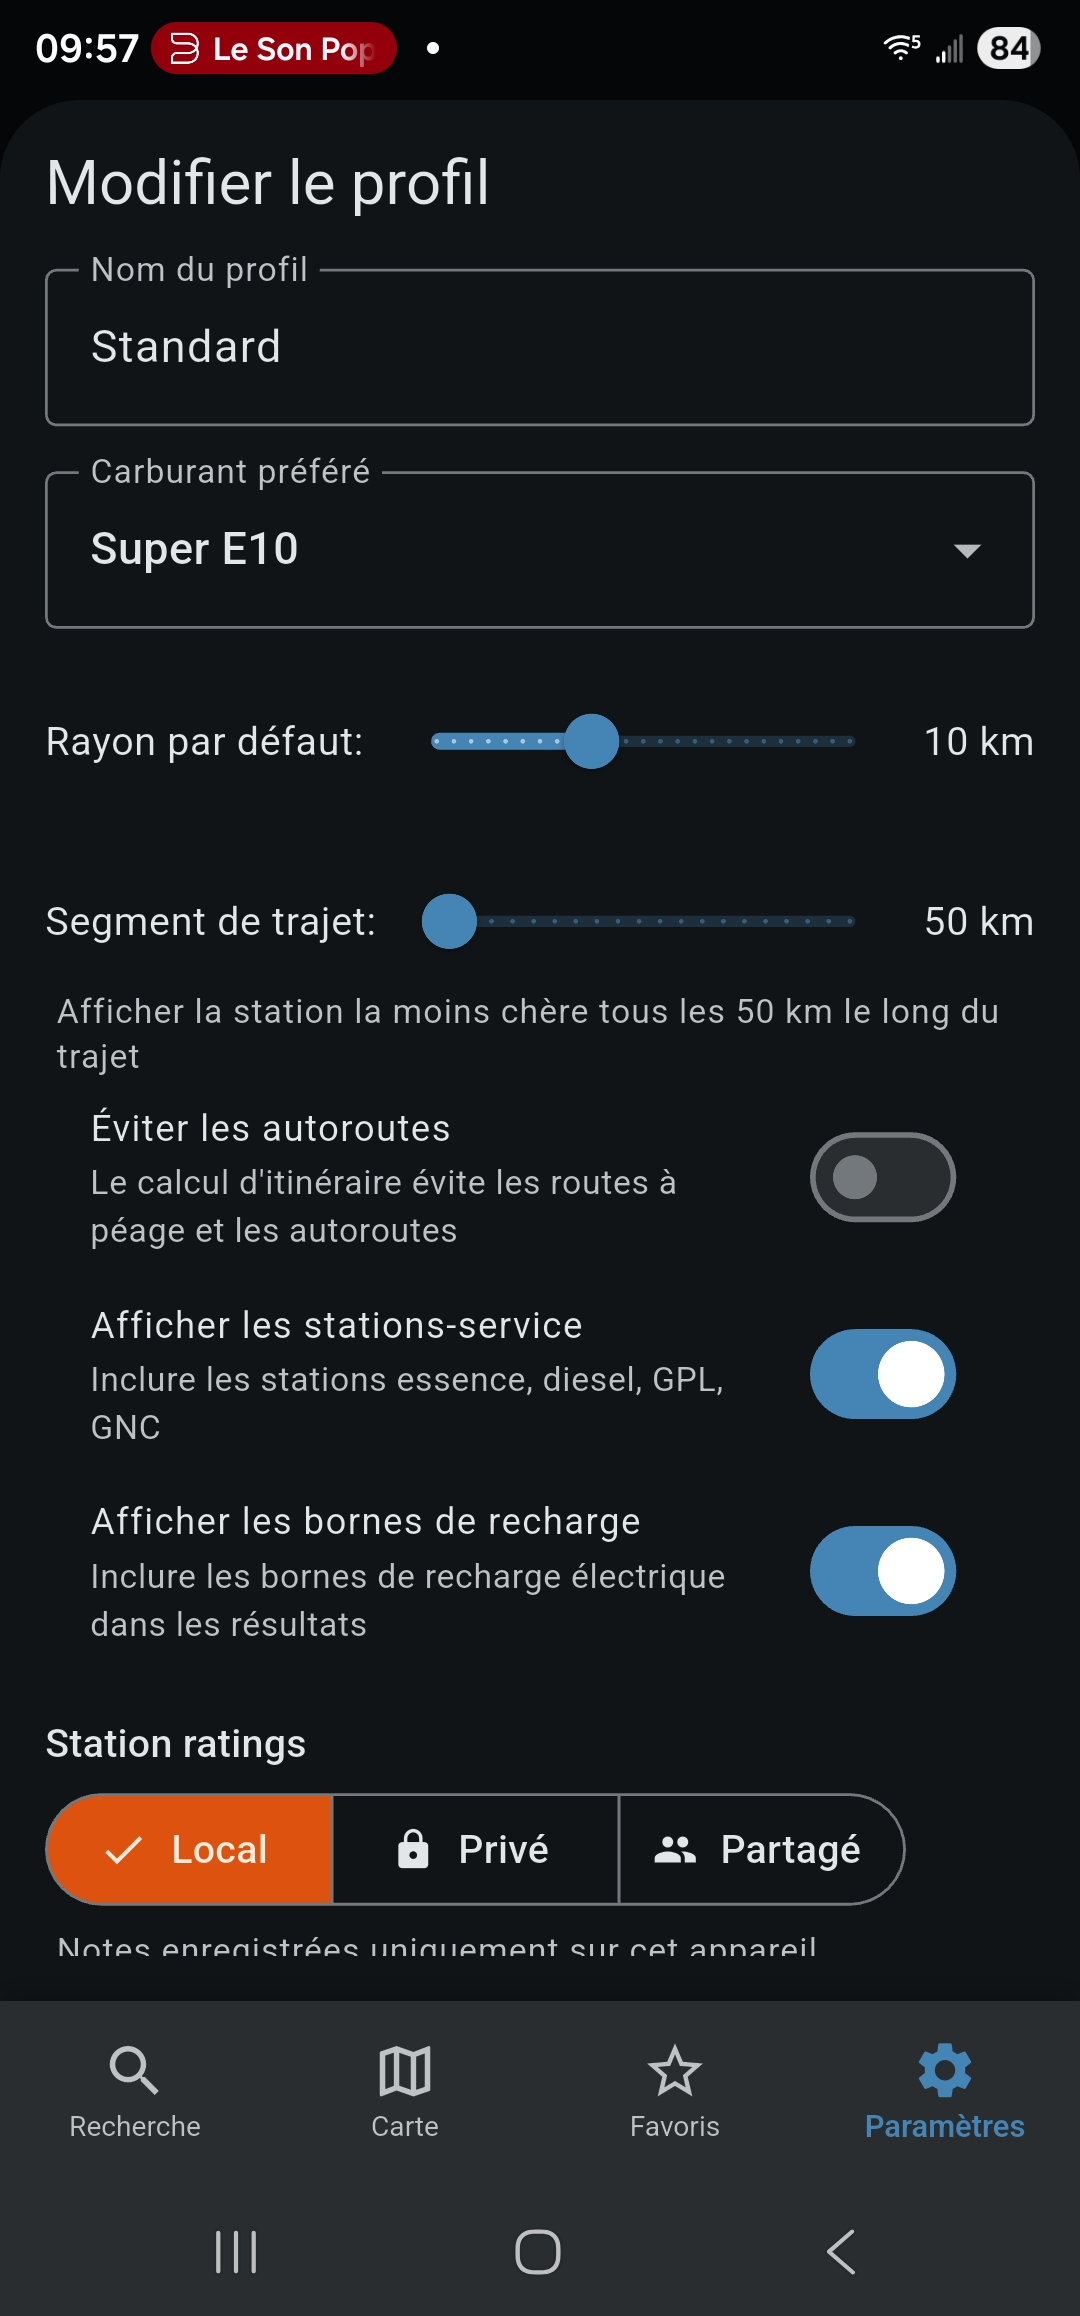
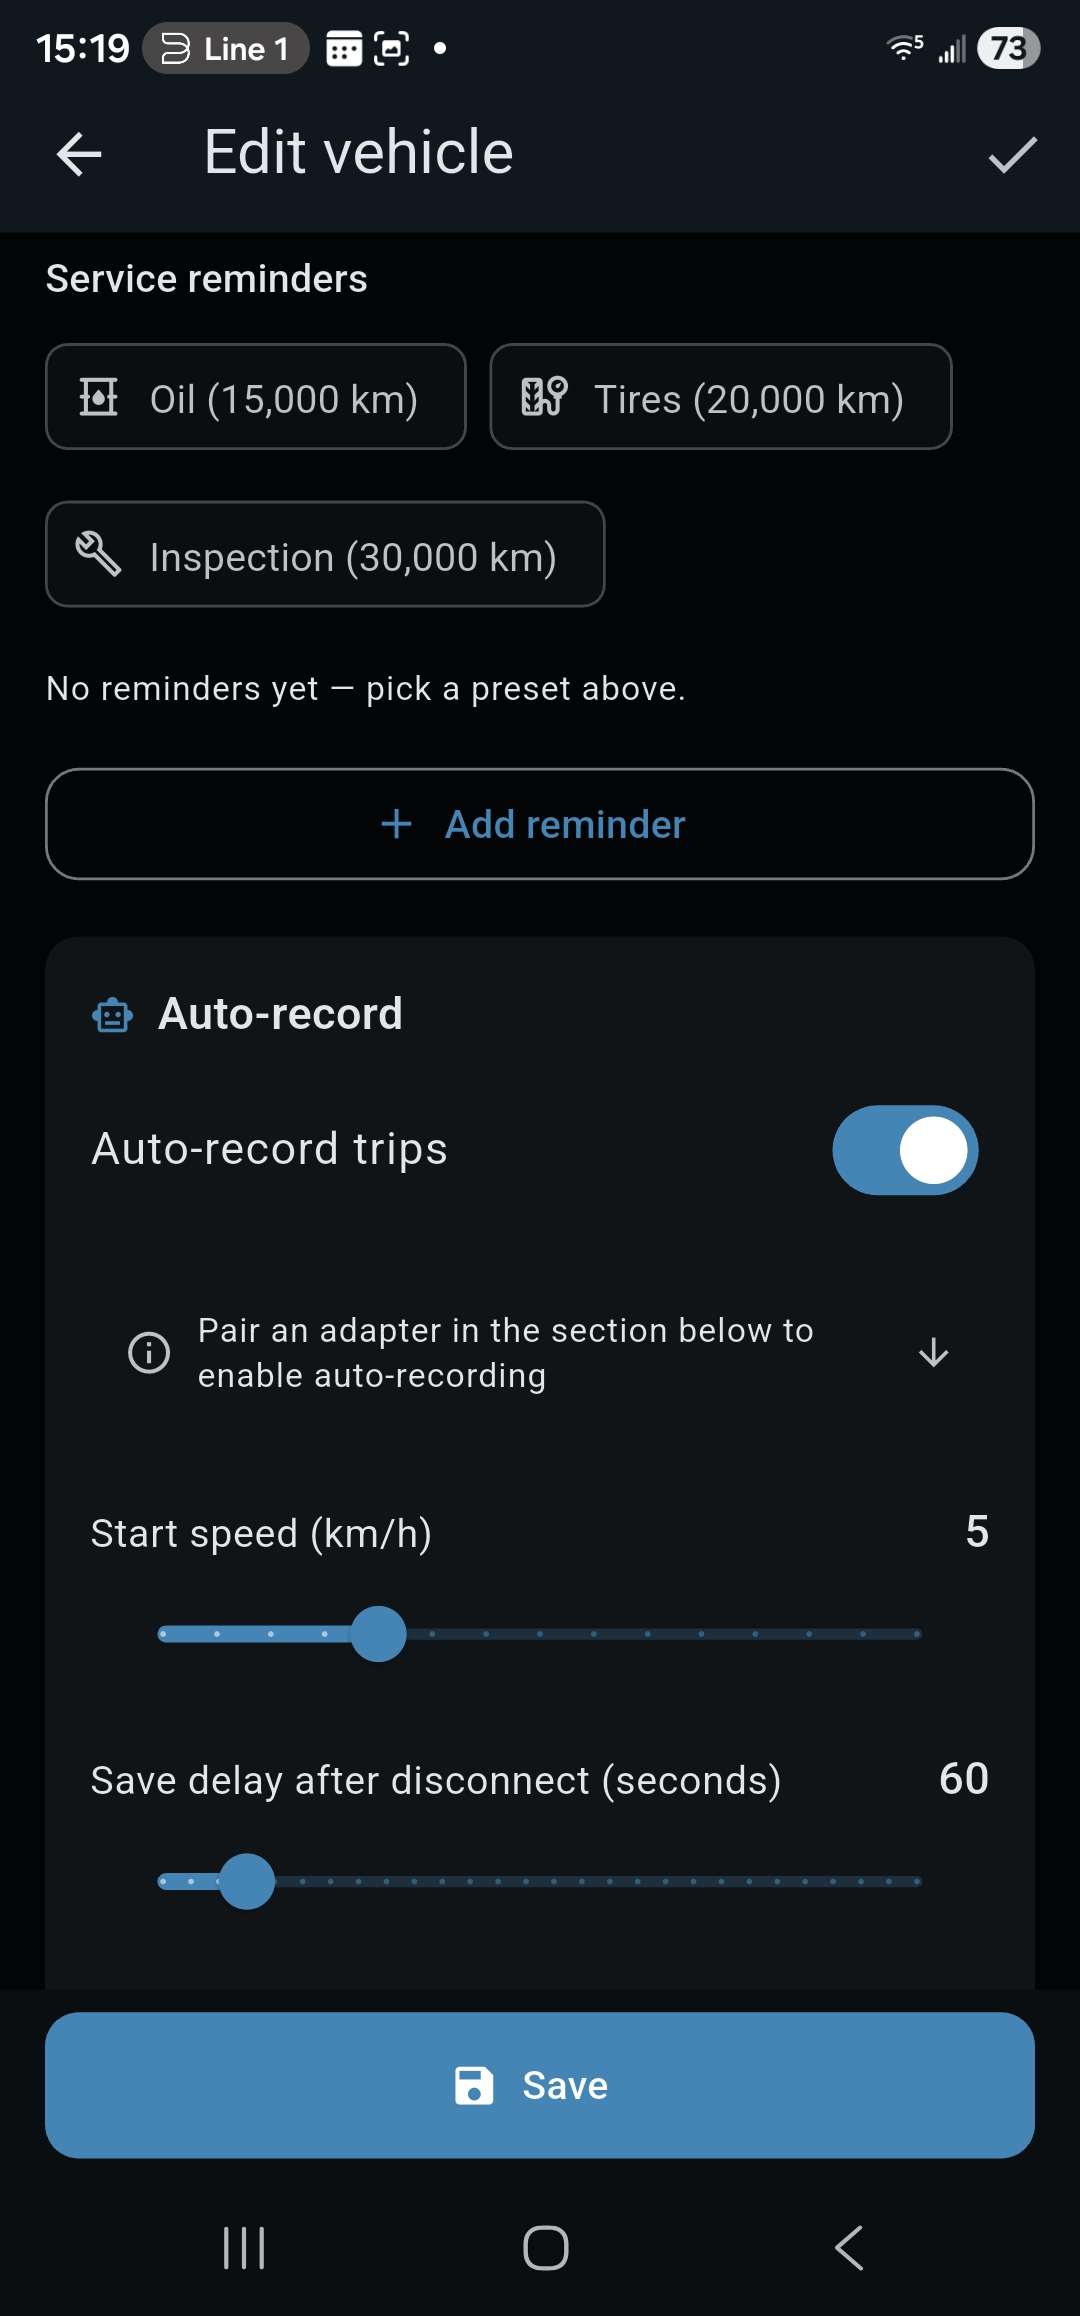
docs(branding): refresh README + Play Store screenshots from live Sparkilo captures
- Replace 7 stale screenshots in docs/screenshots/ with the fresh
  Samsung S20 captures (Sparkilo branding, French locale): search-
  results / search-criteria / map-view / favorites / price-alerts /
  settings / profile-edit.
- Add 11 NEW screenshots covering surfaces the README never had:
  station detail, EV charging on the map, price-alert create dialog,
  GDPR consent screen, Privacy Dashboard (top + scrolled), vehicle
  OBD2 + baseline calibration, vehicle catalog picker, fuel
  consumption (empty + pick-station + tank-stats).
- Expand README's Screenshots section into 5 grouped 3-column tables
  (Find · Save · Track · Vehicle/OBD2 · Privacy) so first-time
  visitors see the full surface area at a glance.
- Mirror 8 ordered screenshots into docs/play-store/screenshots/
  published/ for the Play Store listing pipeline (the supply
  workflow uploads them as phoneScreenshots on the next dispatch).
- Wiki Screenshots page added separately on the wiki repo with the
  full 18-screenshot deck and per-section commentary.

Closes #1473 (Play Store listing refresh — already closed; this
commit lands the screenshot side that was deferred to this PR).

diff --git a/README.md b/README.md
@@ -96,22 +96,47 @@ Features that don't serve at least one of those three layers don't belong.
 
 ## Screenshots
 
-Captured on a Samsung S23 Ultra running the **Play** flavour against the live `Prix Carburants` (France) API.
+Captured on a Samsung Galaxy S20 (Android 14, French locale) running Sparkilo against the live `Prix Carburants` (France) API. UI is fully localised — these are the French strings; English / German renders the same screens.
+
+### Find fuel & EV charging
 
 | Search results | Search criteria | Map view |
 |:--:|:--:|:--:|
-| ![Search results — list of nearby stations with prices, distance, and amenity chips](docs/screenshots/search-results.png) | ![Search criteria modal — toggle nearby vs along-route, fuel type, radius, and amenity filters](docs/screenshots/search-criteria.png) | ![Map view — color-coded price markers around the user's GPS position with cheap/expensive legend](docs/screenshots/map-view.png) |
-| Real-time prices ranked by distance, with brand-specific 24h / amenity badges. | Modal sheet for switching between nearby and along-route searches and tweaking filters. | Interactive map with color-coded price markers and a one-tap "driving mode" launcher. |
+| ![Sparkilo home — list of 10 nearby stations with prices, distance, and 24h badges](docs/screenshots/search-results.png) | ![Search criteria modal — nearby vs along-route, fuel type, radius slider, amenity chips](docs/screenshots/search-criteria.png) | ![Map view — color-coded price markers across Hérault with the bon-marché/cher legend](docs/screenshots/map-view.png) |
+| Real-time prices ranked by distance with brand 24h / amenity badges and a swipe-to-navigate hint. | Modal sheet for nearby vs along-route, fuel type, radius slider, and 8 amenity filters. | Interactive map with green-to-red price markers and a one-tap driving-mode launcher. |
 
-| Favorites | Price alerts | Profile edit |
+| Map (EV) | Station detail | Price alert |
 |:--:|:--:|:--:|
-| ![Favorites tab — saved stations with the swipe-to-navigate / swipe-to-remove tutorial banner](docs/screenshots/favorites.png) | ![Price alerts tab — per-station price thresholds with on/off toggles](docs/screenshots/price-alerts.png) | ![Profile edit screen — preferred fuel, default radius, route segment, ratings privacy](docs/screenshots/profile-edit.png) |
-| Saved stations with multi-fuel pricing and swipe-to-navigate / swipe-to-remove gestures. | Threshold-based price alerts that fire once per 30-min background check. | Per-profile preferred fuel, default radius, route segment, and station rating privacy mode. |
+| ![Map view with EV charging stations — Type 2 / CCS / CHAdeMO filter chips, green charger icons](docs/screenshots/map-ev-charging.png) | ![Total station detail — Super E5 / E10 / Diesel / Super 98 prices, address, opening hours, region](docs/screenshots/station-detail.png) | ![Create price alert dialog — pick fuel type, set target threshold in EUR/L](docs/screenshots/price-alert-create.png) |
+| Same map, EV mode: charger filter chips (Type 2 / CCS / CHAdeMO) and connector availability. | Per-fuel pricing with last-update timestamp, full address, opening hours, region badge. | Per-station, per-fuel-type threshold; the background check fires every 30 min. |
 
-| Settings & privacy |   |   |
+### Save & follow
+
+| Favorites | Price alerts | Use mode |
 |:--:|:--:|:--:|
-| ![Settings screen — configuration & privacy summary listing the active profile, API keys, TankSync state, and a privacy summary block](docs/screenshots/settings.png) |   |   |
-| Configuration & privacy summary: profile, API keys, TankSync auth mode, and a one-glance privacy statement. |   |   |
+| ![Favorites tab with two saved stations and per-fuel pricing](docs/screenshots/favorites.png) | ![Price alerts tab — single Diesel ≤ 2,200 € alert with on/off toggle and 30-min check explainer](docs/screenshots/price-alerts.png) | ![Settings — Use mode selector with Basic / Medium / Full preset cards](docs/screenshots/settings.png) |
+| Saved stations with multi-fuel pricing and swipe-to-navigate / swipe-to-remove gestures. | Threshold-based price alerts; one toggle per station + fuel type. | First Settings section — pick the feature bundle that matches how you use the app. |
+
+### Track your consumption (Medium + Full profiles)
+
+| Empty state | Pick a station | Tank + stats |
+|:--:|:--:|:--:|
+| ![Fuel consumption empty state with prominent Add fill-up CTA](docs/screenshots/consumption-empty.png) | ![Pick a station picker — auto-fills brand, fuel type, and price from the search history](docs/screenshots/consumption-pick-station.png) | ![Fuel consumption with data — tank level 30L / 429 km of range, consumption stats card](docs/screenshots/consumption-tank-stats.png) |
+| Fuel + Trips tabs; empty state guides the user to the first fill-up. | Pre-fills brand, fuel type, and current price from the user's recent search results. | Live tank level (OBD2-measured when an adapter is paired) plus L/100 km, cost/km, totals. |
+
+### Vehicle & OBD2 (Full profile)
+
+| Pick from catalog | Service reminders + Auto-record | OBD2 + Baseline |
+|:--:|:--:|:--:|
+| ![Vehicle catalog picker — searchable Peugeot / Renault list with engine + year + fuel](docs/screenshots/vehicle-catalog-picker.png) | ![Edit vehicle — Service reminder presets, Auto-record toggle with start-speed and save-delay sliders](docs/screenshots/profile-edit.png) | ![Edit vehicle — OBD2 adapter pairing block + 6-axis baseline calibration progress](docs/screenshots/vehicle-obd2-baseline.png) |
+| 30-vehicle catalog (more landing every release) keyed by make / model / year / engine. | One-tap reminder presets + per-vehicle hands-free auto-record with configurable thresholds. | Pair an ELM327-compatible adapter and the app learns a per-driving-situation fuel baseline. |
+
+### Privacy first
+
+| Consent | Privacy Dashboard | Export & delete |
+|:--:|:--:|:--:|
+| ![GDPR consent screen — per-purpose toggles for Location and Error Reporting](docs/screenshots/privacy-consent.png) | ![Privacy Dashboard top — profile, API keys, cloud sync state, privacy summary](docs/screenshots/privacy-dashboard.png) | ![Privacy Dashboard scrolled — Data on this device counts + JSON / CSV export + delete-all](docs/screenshots/privacy-dashboard-export.png) |
+| Per-purpose GDPR consent at first launch — granular and revocable any time. | One-glance summary of what's stored, who has it, and which API keys are in use. | One-tap export of every stored row as JSON or CSV; one-tap delete-all. |
 
 ## Getting Started
 